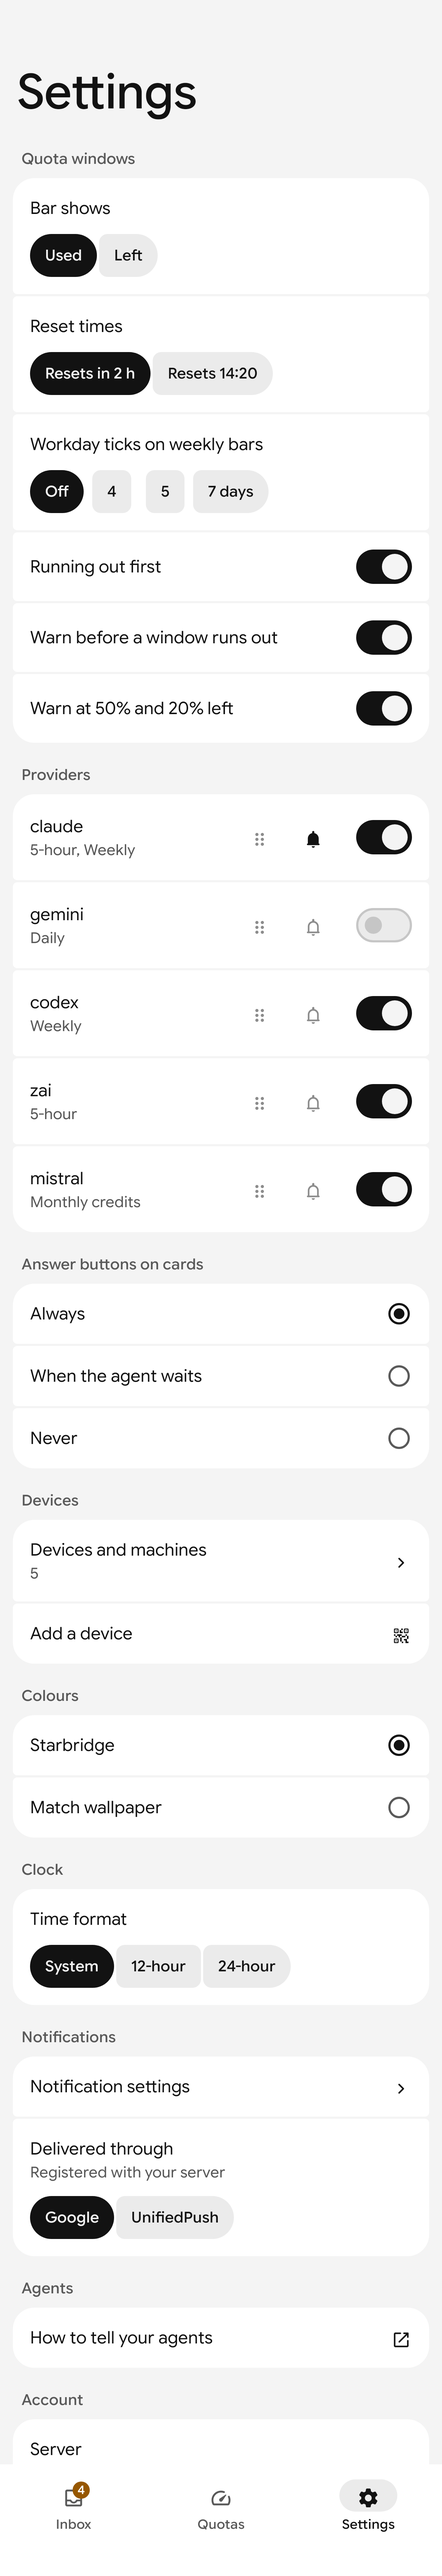
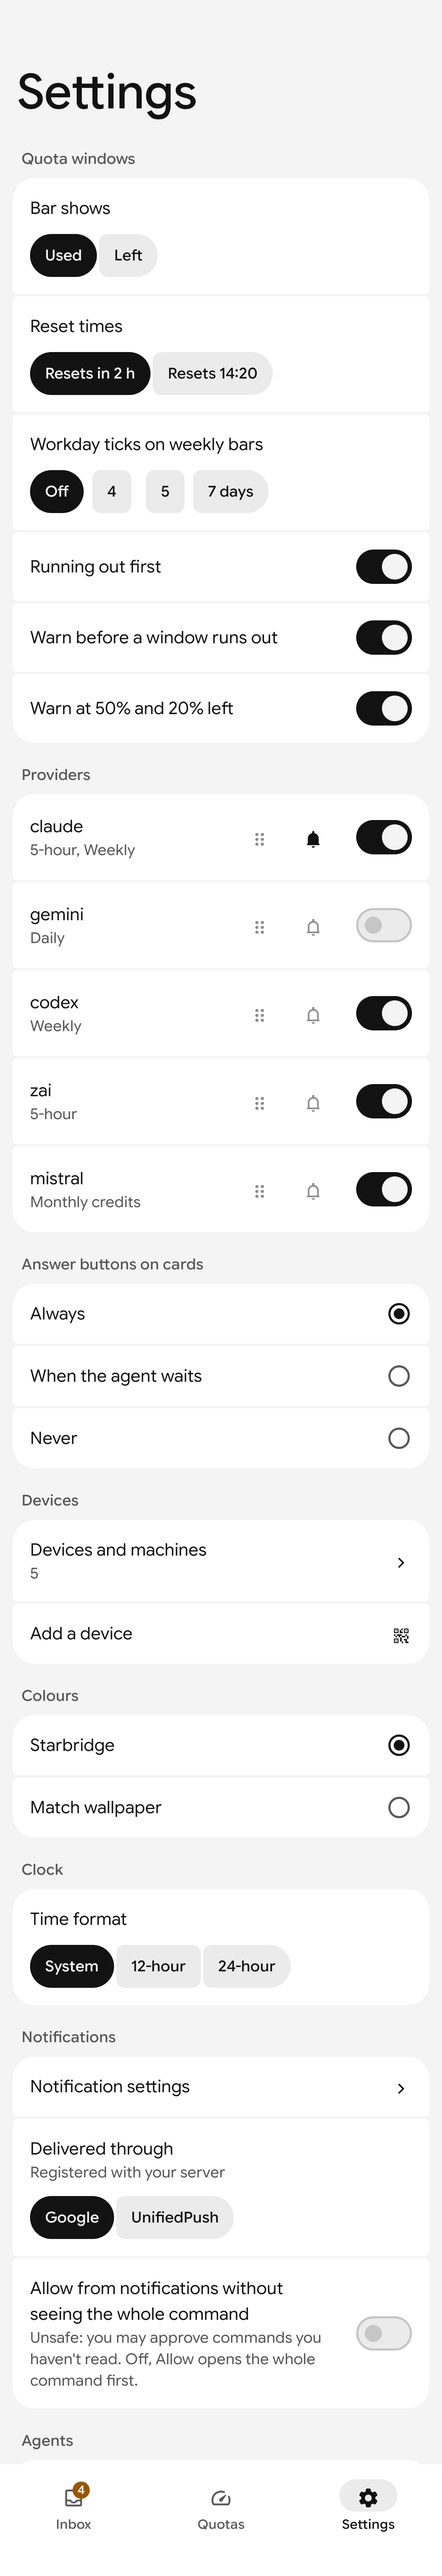
Android: an opt-in setting allows from notifications without showing the whole command (#390)
Off by default and labelled unsafe. On, a notification's Allow sends right
after the unlock on the lock screen, and at once from a collapsed or heads-up
notification whose command does not fit its line.

Closes #390

Changed region(s): [[0.0615, 0.875, 0.4919, 0.9688], [0.8301, 0.875, 0.8608, 0.9375], [0.5227, 0.875, 0.5534, 0.9062]]

diff --git a/android/app/src/main/kotlin/dev/starbridge/app/ui/settings/SettingsScreen.kt b/android/app/src/main/kotlin/dev/starbridge/app/ui/settings/SettingsScreen.kt
@@ -86,6 +86,8 @@ class SettingsViewModel @Inject constructor(private val store: Store, private va
     val colours = prefs.colours
     val inbox = prefs.inbox
     fun setInbox(value: InboxView) = prefs.setInbox(value)
+    val allowUnseen = prefs.allowUnseen
+    fun setAllowUnseen(value: Boolean) = prefs.setAllowUnseen(value)
     fun setQuota(value: QuotaSettings) = prefs.setQuota(value)
     fun setColours(value: Colours) = prefs.setColours(value)
     val clock = prefs.clock
@@ -104,6 +106,7 @@ class SettingsActions(
     val addDevice: () -> Unit,
     val inbox: (InboxView) -> Unit = {},
     val clock: (Clock) -> Unit = {},
+    val allowUnseen: (Boolean) -> Unit = {},
 )
 
 /** Everything this phone keeps for itself, and the account's devices. The settings stay on the phone. */
@@ -119,6 +122,7 @@ fun SettingsScreen(
     modifier: Modifier = Modifier,
     inbox: InboxView = InboxView(),
     clock: Clock = Clock.System,
+    allowUnseen: Boolean = false,
 ) {
     val context = LocalContext.current
     var signingOut by rememberSaveable { mutableStateOf(false) }
@@ -188,16 +192,23 @@ fun SettingsScreen(
 
         item { Section("Notifications") }
         item {
-            LinkRow(0, 2, "Notification settings", null, Sym.Chevron) {
+            LinkRow(0, 3, "Notification settings", null, Sym.Chevron) {
                 runCatching {
                     context.startActivity(Intent(Settings.ACTION_APP_NOTIFICATION_SETTINGS).putExtra(Settings.EXTRA_APP_PACKAGE, context.packageName))
                 }
             }
         }
         item {
-            ChoiceRow(1, 2, "Delivered through", push(push)) {
+            ChoiceRow(1, 3, "Delivered through", push(push)) {
                 Segments(listOf("fcm" to "Google", "unifiedpush" to "UnifiedPush"), push.type, actions.push)
             }
+        }
+        item {
+            SwitchRow(
+                2, 3, "Allow from notifications without seeing the whole command", allowUnseen,
+                sub = "Unsafe: you may approve commands you haven't read. Off, Allow opens the whole command first.",
+                onChange = actions.allowUnseen,
+            )
         }
 
         item { Section("Agents") }
@@ -254,9 +265,9 @@ private fun ChoiceRow(index: Int, count: Int, title: String, sub: String? = null
 }
 
 @Composable
-private fun SwitchRow(index: Int, count: Int, title: String, checked: Boolean, onChange: (Boolean) -> Unit) {
+private fun SwitchRow(index: Int, count: Int, title: String, checked: Boolean, sub: String? = null, onChange: (Boolean) -> Unit) {
     Shell(index, count, Modifier.toggleable(checked, role = Role.Switch, onValueChange = onChange)) {
-        Line { Texts(title, null, Modifier.weight(1f)); Switch(checked = checked, onCheckedChange = null) }
+        Line { Texts(title, sub, Modifier.weight(1f)); Switch(checked = checked, onCheckedChange = null) }
     }
 }
 

diff --git a/android/app/src/main/kotlin/dev/starbridge/app/push/Notifier.kt b/android/app/src/main/kotlin/dev/starbridge/app/push/Notifier.kt
@@ -359,6 +359,9 @@ class Notifier(private val context: Context, private val prefs: Prefs) : Alerts 
         return paint.measureText(p.fullInput) <= width
     }
 
+    /** Whether a notification's Allow sends at once, the lock screen's ([locked]) or the shade's (#390). */
+    fun allowSends(p: Prompt, locked: Boolean = false): Boolean = prefs.allowUnseen.value || (!locked && fitsLine(p))
+
     private fun promptBase(p: Prompt, actions: List<NotificationCompat.Action> = emptyList(), locked: List<NotificationCompat.Action> = actions): NotificationCompat.Builder {
         // A prompt always blocks: its ticking header says so, the title is the tool alone (#191).
         val title = p.tool
@@ -404,7 +407,8 @@ class Notifier(private val context: Context, private val prefs: Prefs) : Alerts 
      * Allow and Deny, as in the inbox. Deny works from the lock screen; Allow asks for the unlock
      * first (the owner's choice, SPEC.md). It sends at once only when the whole input fits the
      * collapsed line; else, and always on the lock screen, which hides the command, it opens the
-     * prompt's sheet, which shows it whole (#356). The wider grants need the app.
+     * prompt's sheet, which shows it whole (#356), unless the owner turned on sending unseen
+     * (#390). The wider grants need the app.
      */
     override fun prompt(prompt: Prompt) = postPrompt(prompt, null)
 
@@ -419,7 +423,7 @@ class Notifier(private val context: Context, private val prefs: Prefs) : Alerts 
         val deny = NotificationCompat.Action.Builder(0, "Deny", promptIntent(prompt, false, "once", tag * 31 + 2))
             .setAuthenticationRequired(false)
             .build()
-        val b = promptBase(prompt, listOf(allow(fitsLine(prompt)), deny), locked = listOf(allow(false), deny))
+        val b = promptBase(prompt, listOf(allow(allowSends(prompt)), deny), locked = listOf(allow(allowSends(prompt, locked = true)), deny))
         // The note goes above the command, so Allow still shows what it covers.
         if (note != null) b.setContentText(note).setStyle(NotificationCompat.BigTextStyle().bigText(TextUtils.concat(note, "\n", command(prompt)))).setSilent(true)
         shown[tag] = prompt.id

diff --git a/android/app/src/main/kotlin/dev/starbridge/app/ui/Root.kt b/android/app/src/main/kotlin/dev/starbridge/app/ui/Root.kt
@@ -303,11 +303,13 @@ fun Main(decisions: List<Decision>, notice: StateFlow<String?>, dismiss: () -> U
                         val server by vm.server.collectAsStateWithLifecycle()
                         val inbox by vm.inbox.collectAsStateWithLifecycle()
                         val clock by vm.clock.collectAsStateWithLifecycle()
+                        val allowUnseen by vm.allowUnseen.collectAsStateWithLifecycle()
                         SettingsScreen(
                             windows, quota, members.size, colours, push, server,
-                            SettingsActions(vm::setQuota, vm::setColours, vm::setPush, vm::signOut, devices = { backStack.add(DevicesKey) }, addDevice = { backStack.add(AddDeviceKey) }, inbox = vm::setInbox, clock = vm::setClock),
+                            SettingsActions(vm::setQuota, vm::setColours, vm::setPush, vm::signOut, devices = { backStack.add(DevicesKey) }, addDevice = { backStack.add(AddDeviceKey) }, inbox = vm::setInbox, clock = vm::setClock, allowUnseen = vm::setAllowUnseen),
                             inbox = inbox,
                             clock = clock,
+                            allowUnseen = allowUnseen,
                         )
                     }
                     entry<DevicesKey> {

diff --git a/android/app/src/test/kotlin/dev/starbridge/app/NotifierTest.kt b/android/app/src/test/kotlin/dev/starbridge/app/NotifierTest.kt
@@ -78,6 +78,23 @@ class NotifierTest {
         assertEquals("ls #\\u202E hs", p.fullInput)
     }
 
+    // With "Allow from notifications without seeing the whole command" on, both Allows send (#390).
+    @Test
+    fun theUnsafeSettingSendsFromTheShadeAndTheLockScreen() {
+        val prefs = Prefs(context)
+        val notifier = Notifier(context, prefs)
+        for ((on, shade, locked) in listOf(Triple(false, false, false), Triple(true, true, true))) {
+            prefs.setAllowUnseen(on)
+            notifier.clearAll()
+            notifier.prompt(fake.longPrompt)
+            val n = posted()
+            assertEquals(shade, shadowOf(n.actions.first().actionIntent).isBroadcastIntent)
+            assertEquals(locked, shadowOf(n.publicVersion.actions.first().actionIntent).isBroadcastIntent)
+            assertTrue(n.publicVersion.actions.first().isAuthenticationRequired)
+        }
+        prefs.setAllowUnseen(false)
+    }
+
     @Test
     fun everyChannelSitsInAGroup() {
         val manager = context.getSystemService(Context.NOTIFICATION_SERVICE) as NotificationManager

diff --git a/android/app/src/main/kotlin/dev/starbridge/app/data/Prefs.kt b/android/app/src/main/kotlin/dev/starbridge/app/data/Prefs.kt
@@ -75,6 +75,16 @@ class Prefs @Inject constructor(@ApplicationContext context: Context) {
         _inbox.value = value
     }
 
+    private val _allowUnseen = MutableStateFlow(prefs.getBoolean(ALLOW_UNSEEN, false))
+
+    /** A notification's Allow sends even when the whole command was not on screen; off by default (#390). */
+    val allowUnseen: StateFlow<Boolean> = _allowUnseen
+
+    fun setAllowUnseen(value: Boolean) {
+        prefs.edit().putBoolean(ALLOW_UNSEEN, value).apply()
+        _allowUnseen.value = value
+    }
+
     /** Marks a quota notice shown; false when it already was. Keeps the last 200. */
     @Synchronized
     fun firstShow(key: String): Boolean {
@@ -93,6 +103,7 @@ class Prefs @Inject constructor(@ApplicationContext context: Context) {
         const val GROUPING = "inbox-grouping"
         const val HISTORY_OPEN = "inbox-history-open"
         const val BUTTONS = "inbox-card-buttons"
+        const val ALLOW_UNSEEN = "allow-unseen"
         val json = Json { ignoreUnknownKeys = true; encodeDefaults = false }
     }
 }

diff --git a/android/app/src/main/kotlin/dev/starbridge/app/push/Receivers.kt b/android/app/src/main/kotlin/dev/starbridge/app/push/Receivers.kt
@@ -74,7 +74,7 @@ class PromptReceiver : BroadcastReceiver() {
         }
         // A notification posted before #356 may carry Allow for an input it showed only in part.
         val shown = app.store().prompts.value.find { it.id == id }
-        if (allow && shown != null && !app.notifier().fitsLine(shown)) {
+        if (allow && shown != null && !app.notifier().allowSends(shown)) {
             app.notifier().promptFailed(shown, "open it to read the whole command")
             return
         }

diff --git a/SPEC.md b/SPEC.md
@@ -1469,6 +1469,10 @@ so the mod is the first path.
   lock-screen Allow of #57 and #182). It still asks for the unlock, then opens the prompt's sheet
   with the whole command, Allow one tap away; it no longer sends. Deny still answers from the
   lock screen.
+- 2026-10-06. One opt-in skips both (owner, #390): Settings, Notifications, "Allow from
+  notifications without seeing the whole command", off by default and labelled unsafe. On, a
+  notification's Allow sends right after the unlock on the lock screen, and at once from a
+  collapsed or heads-up notification whose command does not fit its line.
 - 2026-10-06. Permission text shows control and format characters as escapes (`\u202E`), on the
   machine before sealing and again in every client, so a bidi override cannot reorder the
   command the owner allows (#357).
